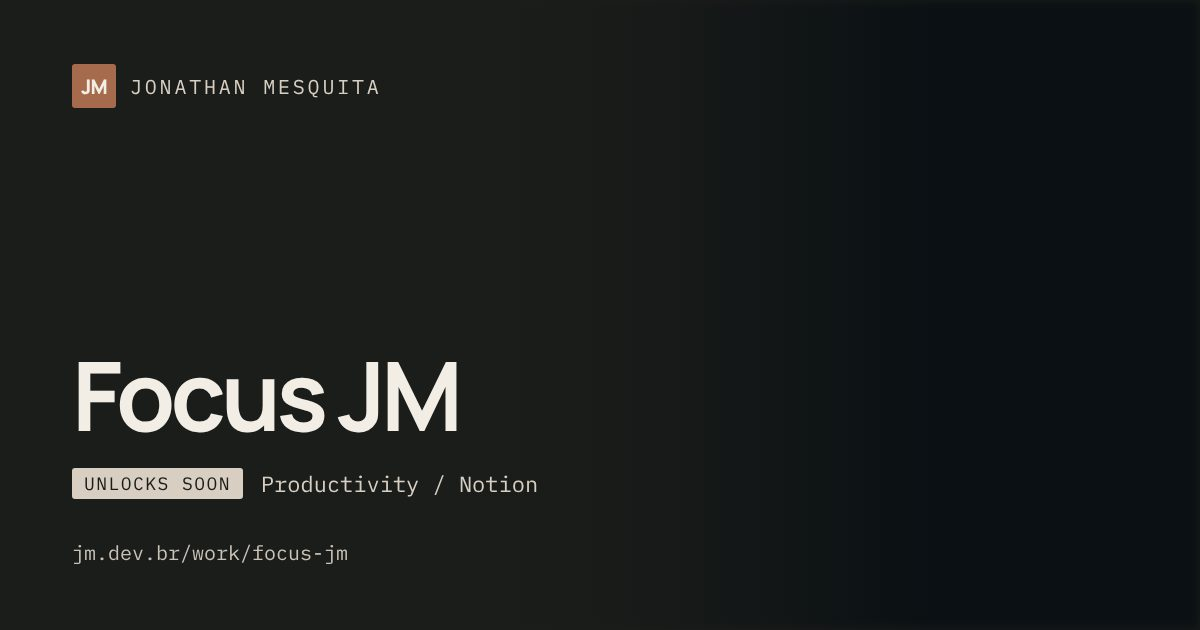
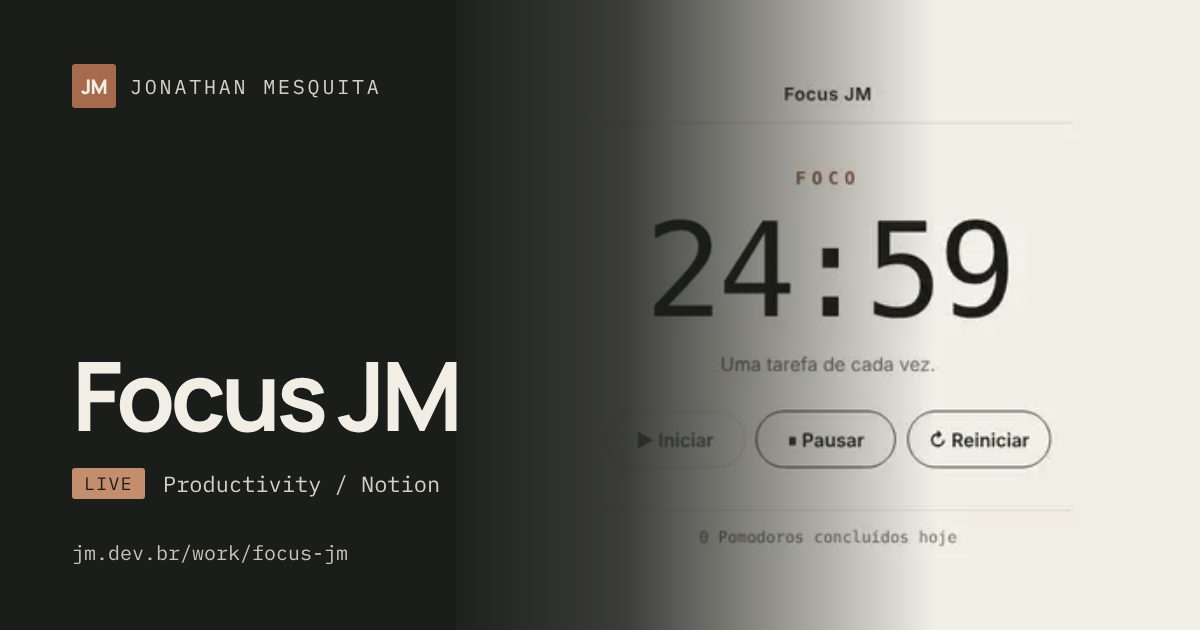
feat(catalog): release Focus JM
Focus JM is live at focus.jm.dev.br, so its card is no longer locked:
status "live", links to the site and to github.com/jonathanmesquita/
focus-jm, and a recorded poster and preview (the timer starting, then
the clock fast-forwarded to show the focus → break switch). Social
images were re-rendered with the "Live" badge.

- new row "More projects" (Focus JM, Arriba Jump); "Unlocking soon" is
  gone because it would be empty
- the catalog hides filter chips with no matching title, so "Unlocks
  soon" disappears now and comes back with the next locked title
- capture job "focus": the app uses root-absolute paths, so requests
  are redirected into /focus-jm/ while it is served from a subfolder
- tests: the locked-title check uses the first locked title and is
  skipped, with the reason, while there is none; axe also checks the
  Focus JM dialog. 9 pass, 1 skipped.

Claude-Session: https://claude.ai/code/session_01A5MEJ6ezoaF5s6TaWiGiVb

diff --git a/src/data/projects.js b/src/data/projects.js
@@ -179,8 +179,8 @@ export const projects = [
     title: "Focus JM",
     category: "Productivity / Notion",
     year: "2026",
-    status: "building",
-    genres: ["web"],
+    status: "live",
+    genres: ["web", "tool"],
     description:
       "A small Pomodoro timer: 25 minutes of focus, 5 of break, switching on its own. Runs in the browser and inside Notion as an embed.",
     highlights: [
@@ -188,8 +188,8 @@ export const projects = [
       "Timer rules in a DOM-free module with tests; no dependencies"
     ],
     stack: ["HTML", "CSS", "JavaScript", "localStorage"],
-    links: { live: null, code: null },
-    media: null
+    links: { live: "https://focus.jm.dev.br", code: `${GITHUB}/focus-jm` },
+    media: { poster: "focus-jm", video: "focus-jm" }
   }
 ];
 
@@ -209,9 +209,9 @@ export const catalogRows = [
     items: ["cnab-400", "csv-validator", "sql-playground", "sql-course", "web-editor", "dns-checker", "test-data"]
   },
   {
-    id: "soon",
-    title: "Unlocking soon",
-    items: ["focus-jm"]
+    id: "more",
+    title: "More projects",
+    items: ["focus-jm", "arriba-jump"]
   }
 ];
 

diff --git a/src/catalog.js b/src/catalog.js
@@ -653,7 +653,13 @@ export function mountCatalog(root, { initialLang = "en" } = {}) {
     grid = h("ul", { class: "catalog-grid", role: "list", hidden: true });
     status = h("p", { class: "visually-hidden", role: "status" });
 
-    chips = genreFilters.map((filter) =>
+    /* A filter with no matching title is not shown ("Unlocks soon" disappears
+       while nothing is locked, and comes back with the next locked title). */
+    const usefulFilters = genreFilters.filter(
+      (filter) => filter.id === "all" || projects.some((project) => matchesFilter(project, filter.id))
+    );
+
+    chips = usefulFilters.map((filter) =>
       h(
         "button",
         {

diff --git a/src/data/projects-pt.js b/src/data/projects-pt.js
@@ -111,7 +111,7 @@ export const projectsPt = {
 export const rowsPt = {
   top: "Destaques",
   "arriba-tools": "Por dentro da Arriba Platform",
-  soon: "Desbloqueia em breve"
+  more: "Mais projetos"
 };
 
 export const filtersPt = {
